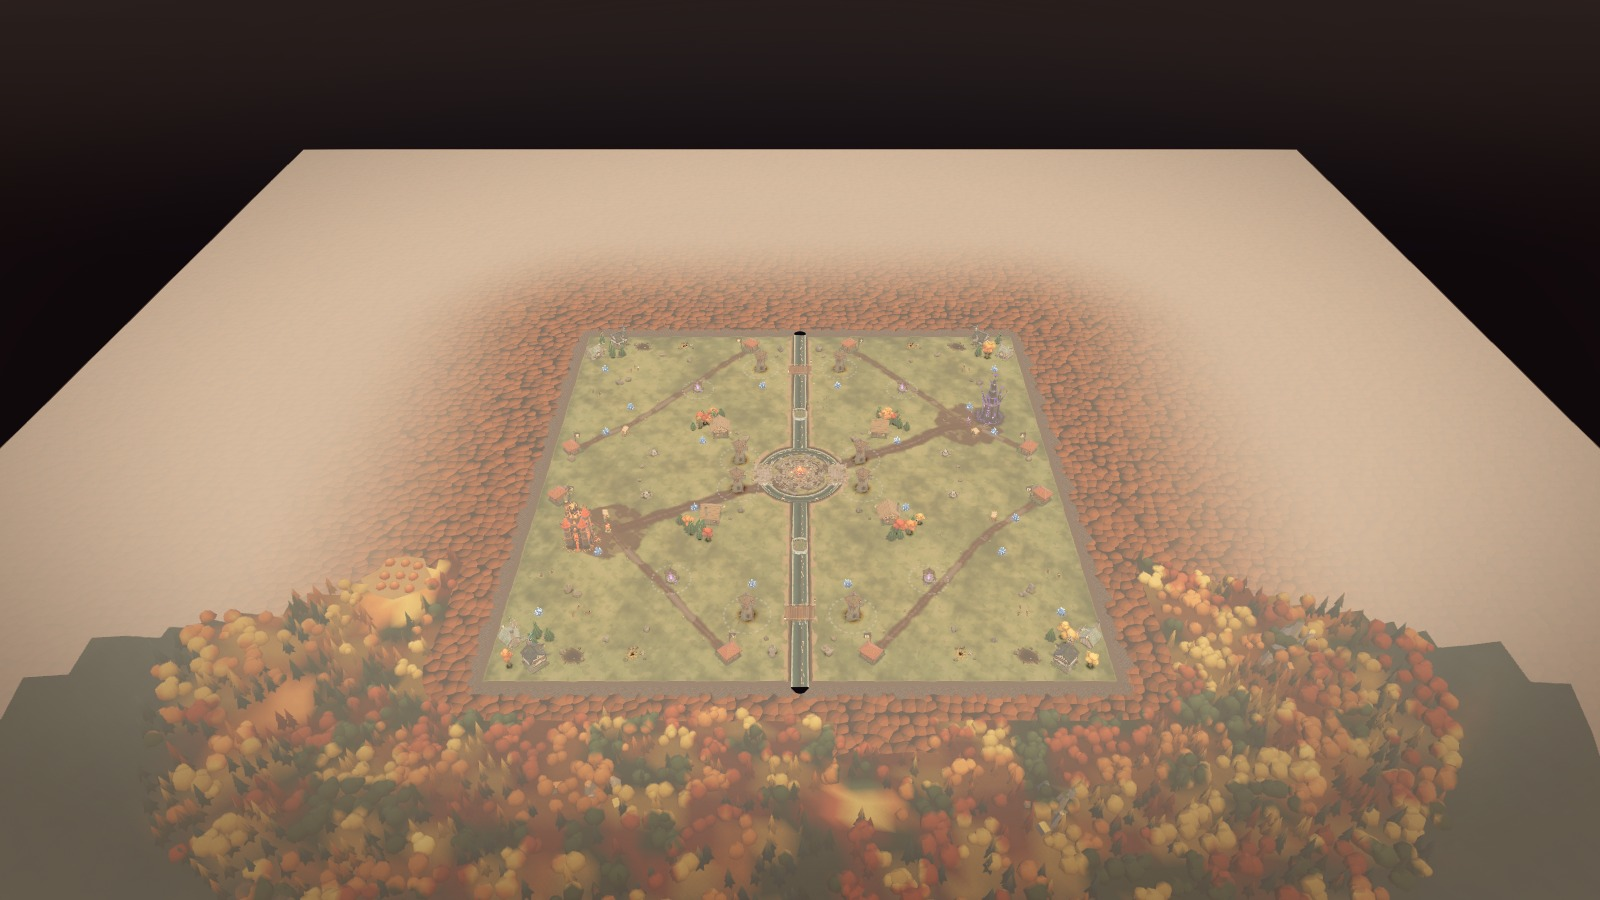
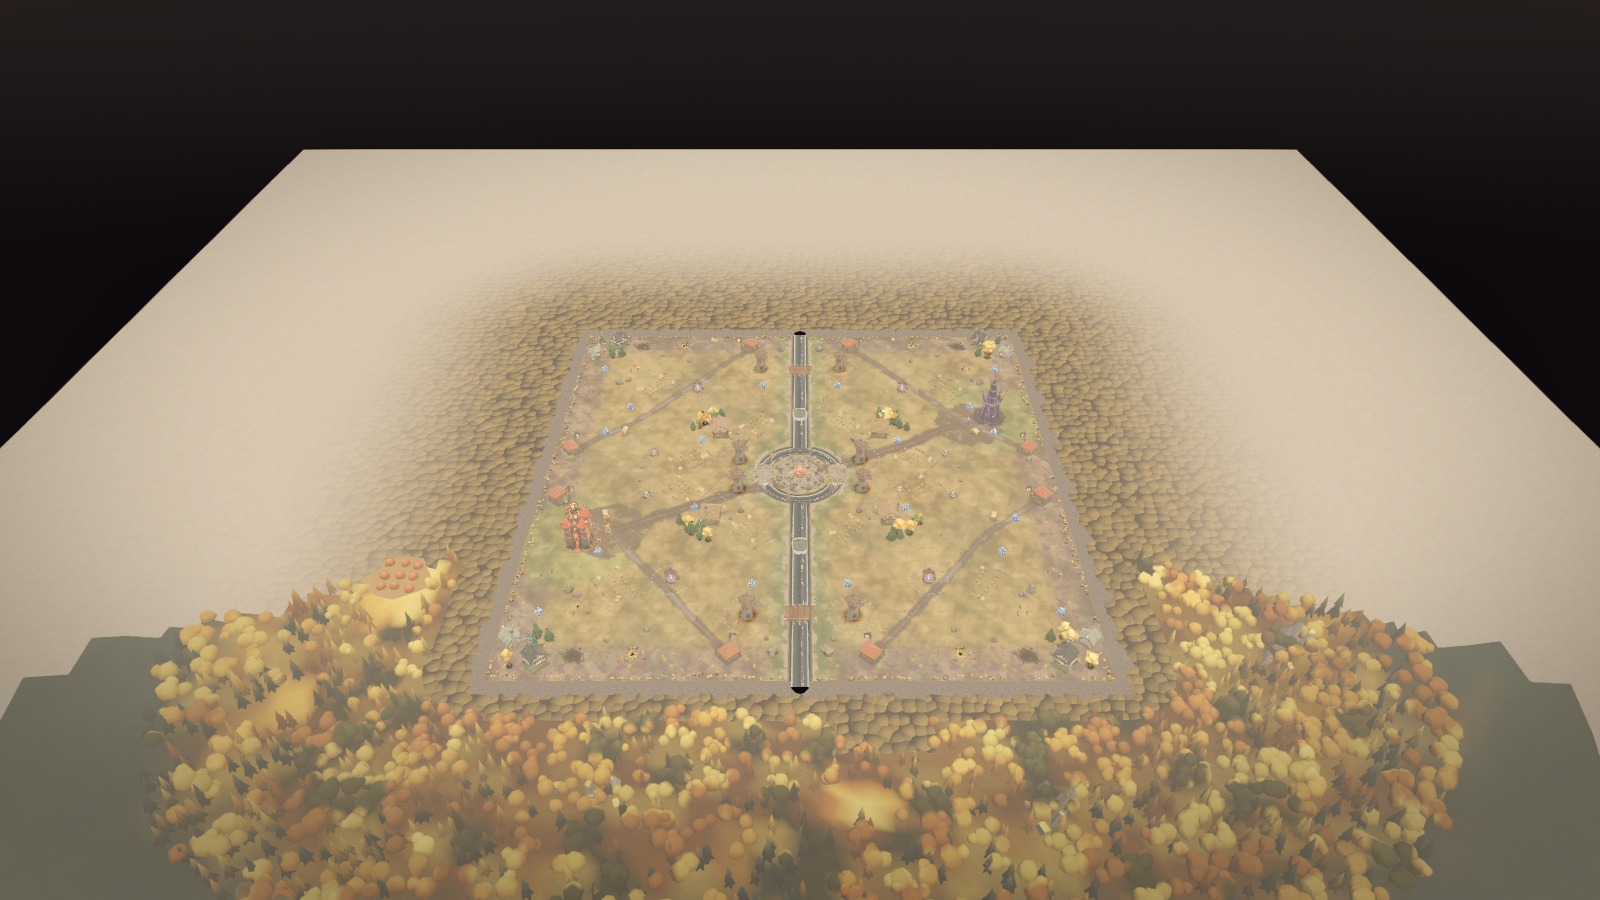
G-F per-map horizon follow-up: the Quartermeet horizon takes the Quartermeet palette (per-level material override from the autumn horizon material, golden tones; shared materials untouched, Ashwind unchanged); test_gf_horizon loads real Quartermeet / Ashwind levels

diff --git a/docs/art/gf_horizon.md b/docs/art/gf_horizon.md
@@ -45,6 +45,19 @@ which has no `fit_xz`. So the Quartermeet and Ashwind Reach horizons were **not 
 - **Hook.** None needed: `HorizonFit._fit_to_map` (already deferred after the level's `MapInfo.setup`) calls
   `apply_variant`. `level_looks.gd` is not touched.
 
+## Quartermeet palette (follow-up)
+Quartermeet has its own look (`docs/art/gf_quartermeet.md`). Its horizon used to keep AutumnSwap's shared orange /
+russet mix; it now has its own palette:
+- On the layout id `quartermeet`, `HorizonFit.apply_palette` sets a `material_override` on the 8 sectors. The
+  override comes from `HorizonVariant.palette_override(map_id)`: a cached duplicate of `horizon_autumn_mat.tres`
+  (same shader, same cost) whose `far_*` tones come from `QuartermeetPalette.NATURE` (×0.86 for haze), plus a
+  late-green minority (share 0.14).
+- The shared materials are never touched, so Ashwind Reach and every other map are unchanged.
+- The test checks both maps: Quartermeet has the override, and Ashwind has none and its shared material is
+  intact.
+- The dense band just outside the map is the ground's painted canopy, which QuartermeetLook already recolours.
+- Shot: `lab/gf_horizon/after/quartermeet_overview_qm_palette.jpg`, also `key_quartermeet_overview_after.png`.
+
 ## Cost
 - No new shader pass, light or particle. Draw-only, with no colliders and nothing on the navmesh.
 - Triangles (baked 96 407):
